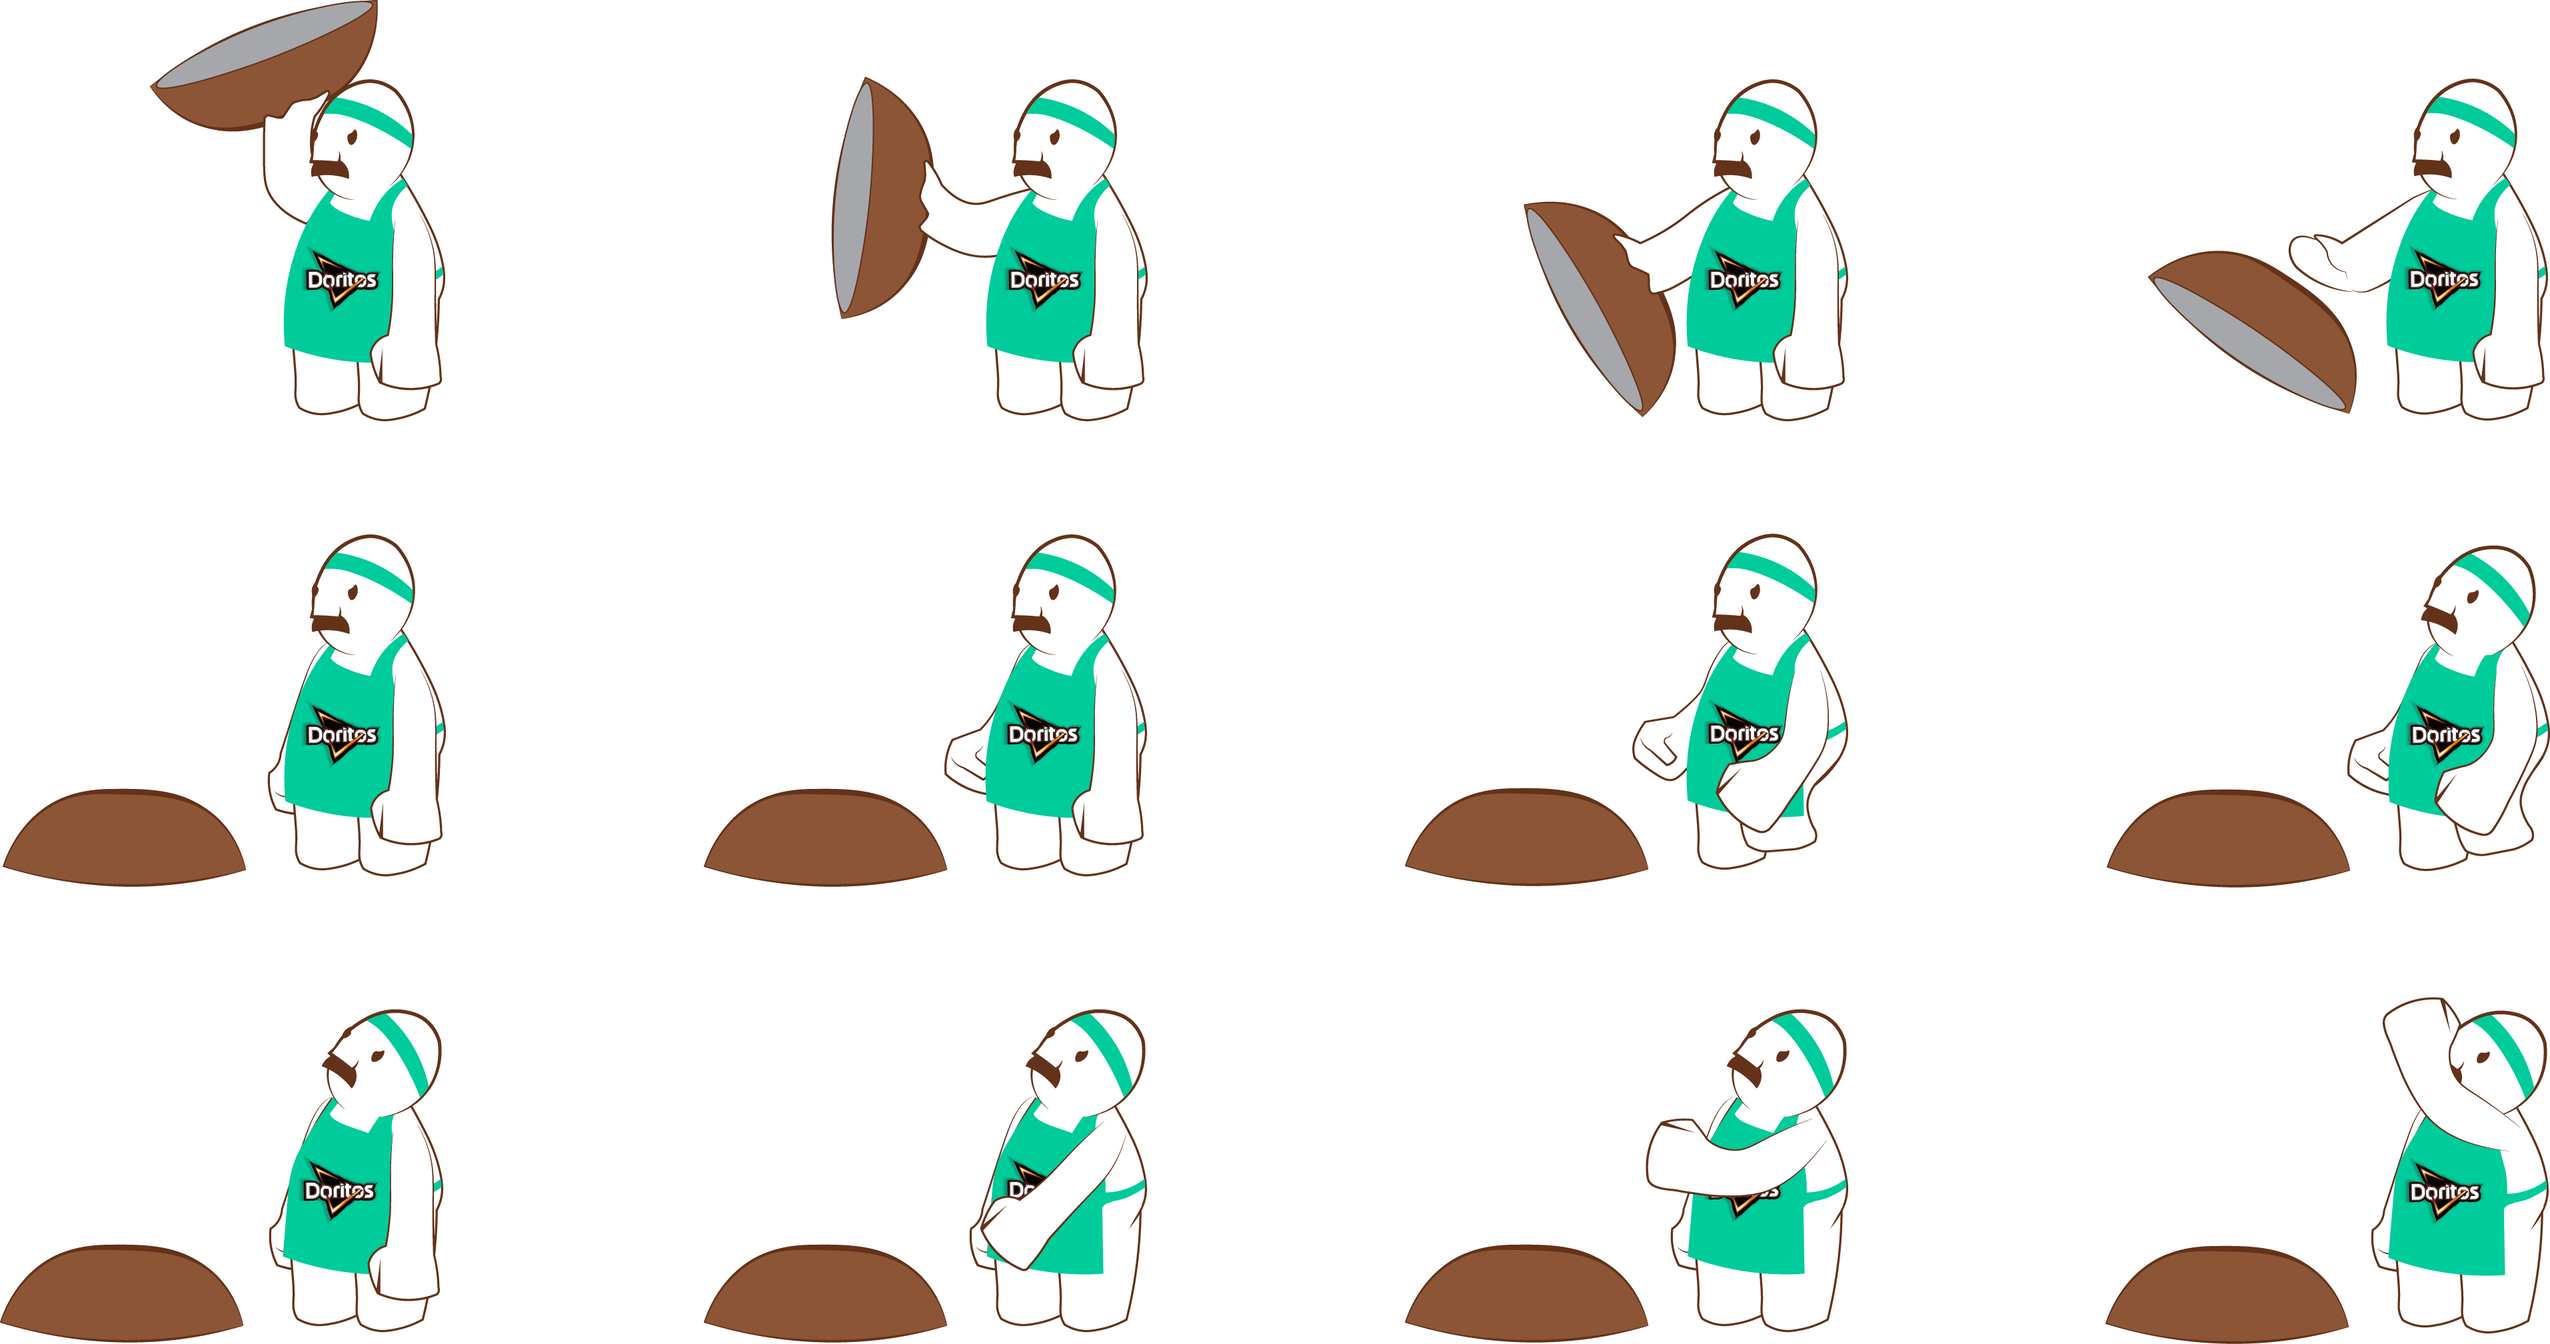
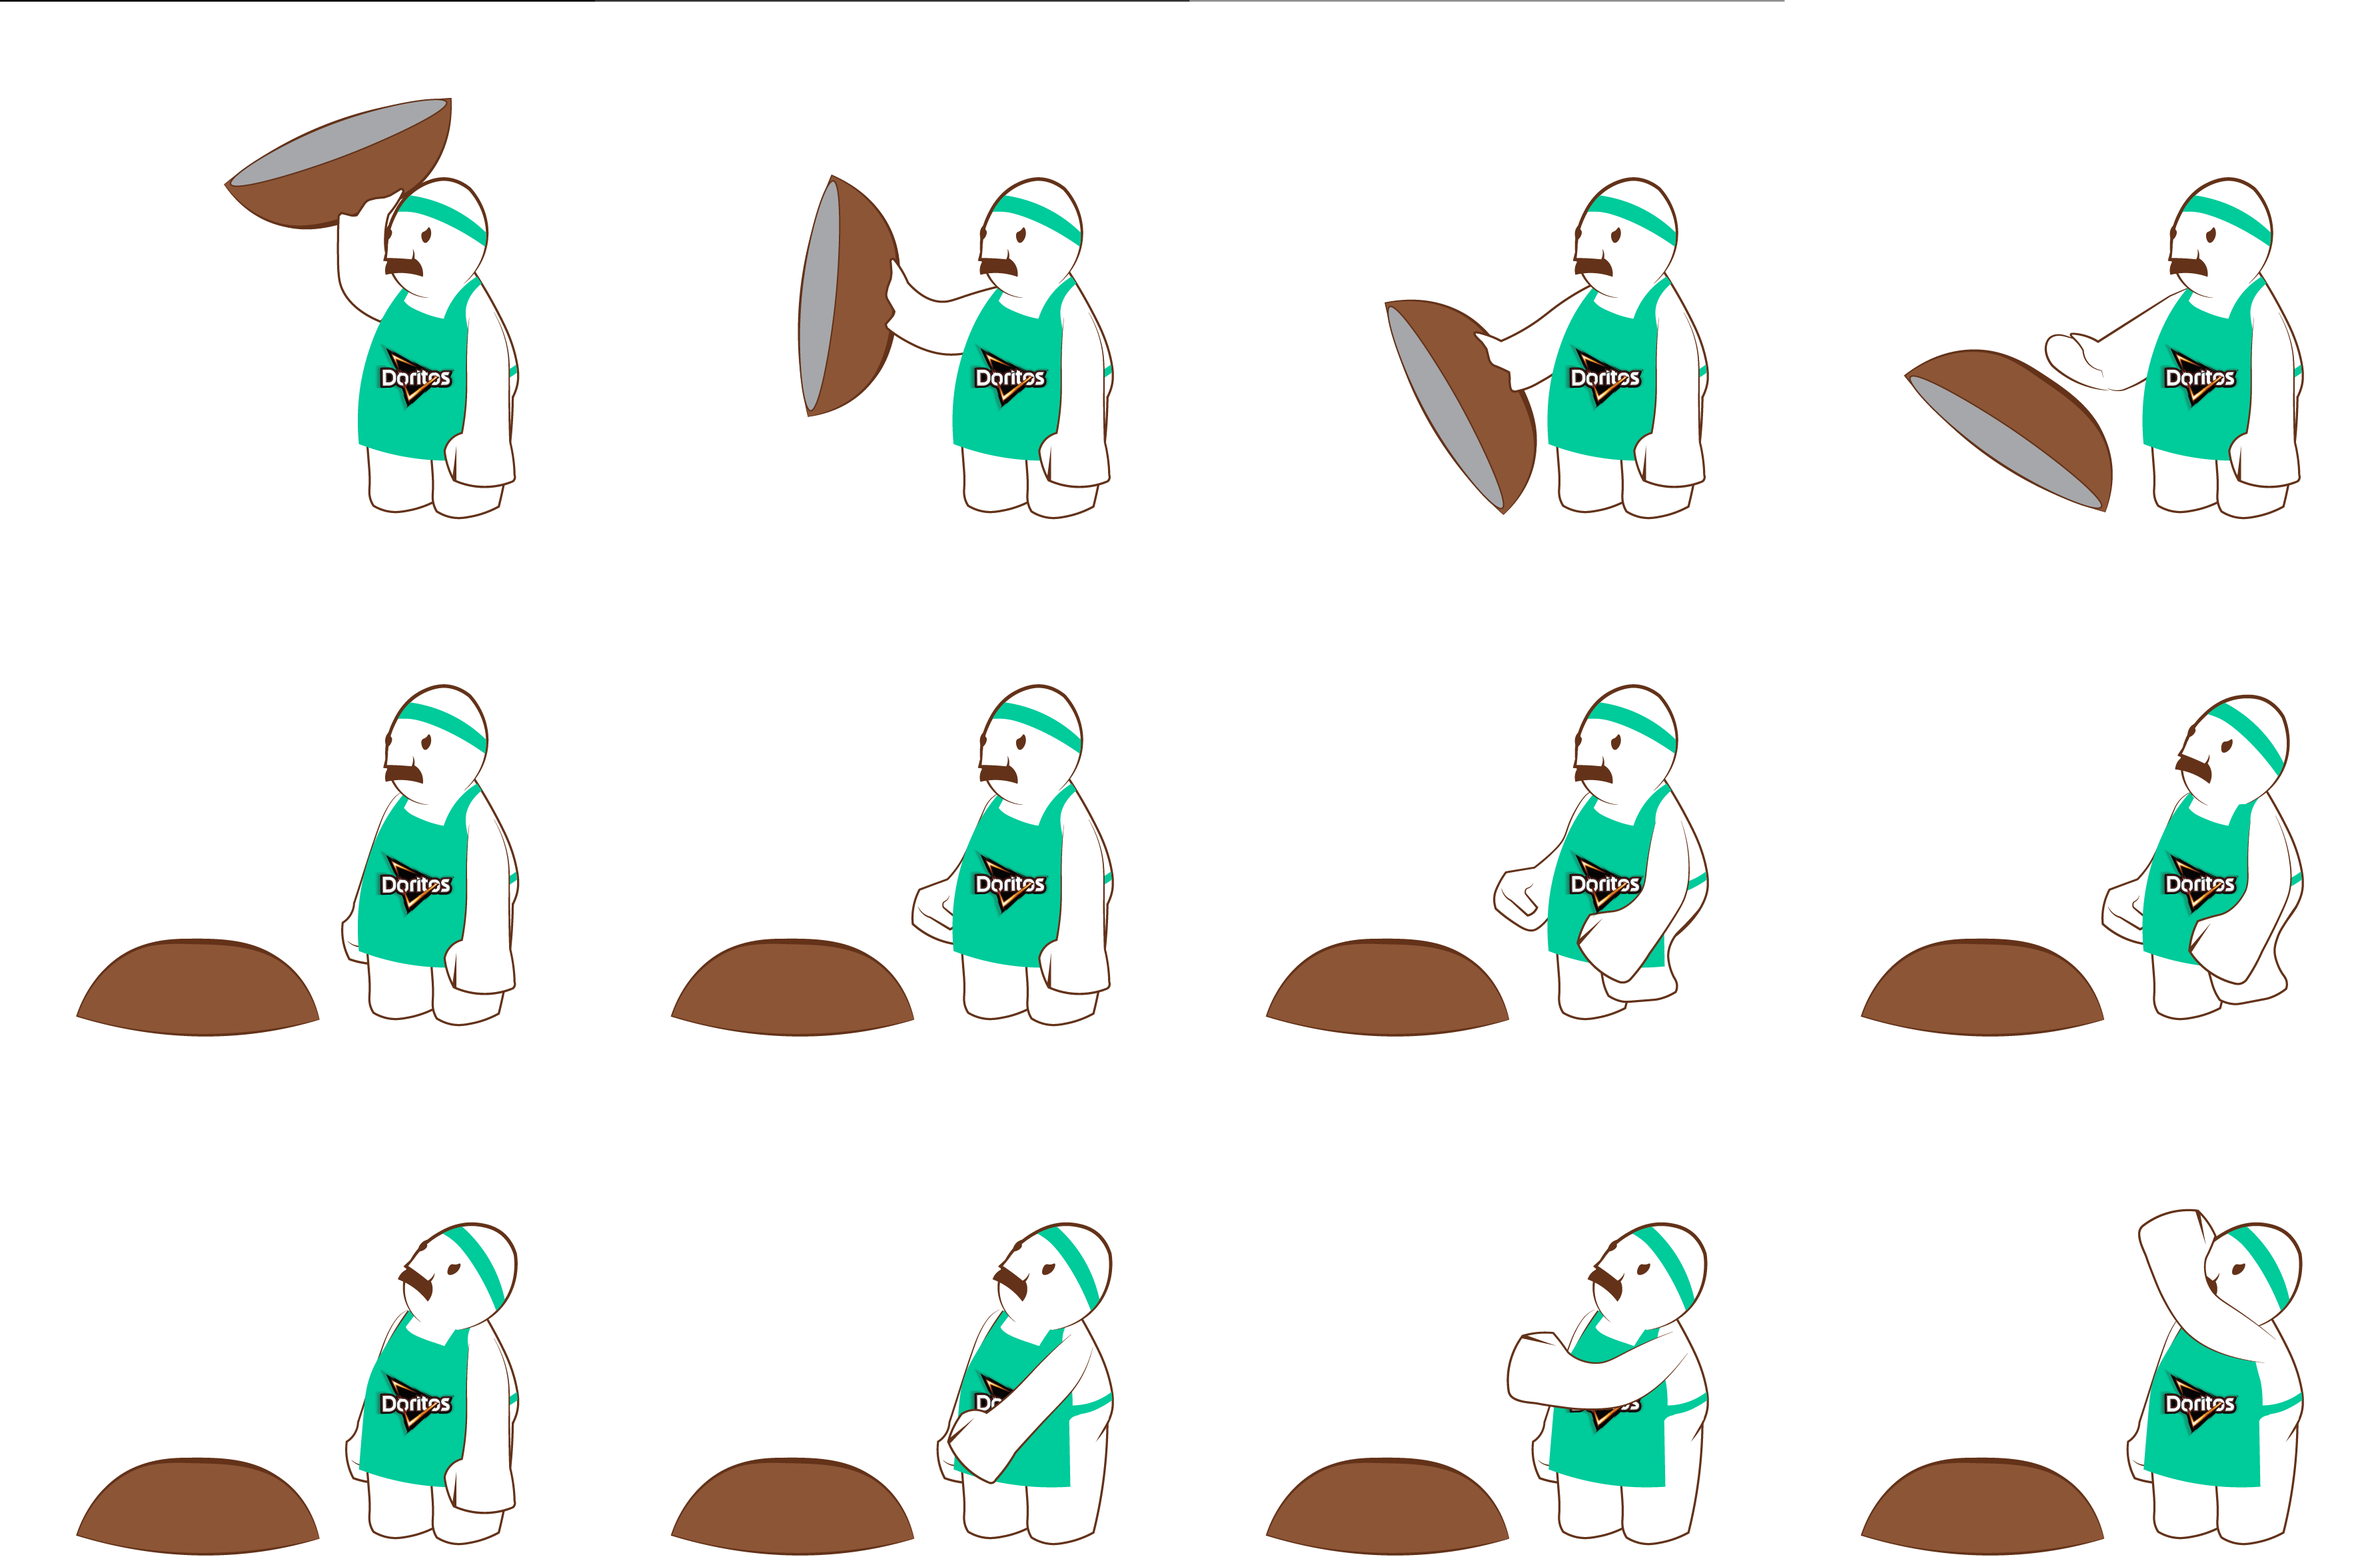
1. Animaciones funcionales

diff --git a/src/scenes/preloader.js b/src/scenes/preloader.js
@@ -8,11 +8,11 @@ export class Preloader extends Phaser.Scene {
     {
         this.load.setPath('public/assets');
         /* PLAYER */
-        this.load.spritesheet('player_iddle', './animaciones/player_iddle.png', { frameWidth: 450, frameHeight: 651.6 });
+        this.load.spritesheet('player_iddle', './animaciones/player_iddle.png', { frameWidth: 389, frameHeight: 779 });
         // this.load.spritesheet('player_run', './animaciones/player_run.png', { frameWidth: 450, frameHeight: 651.6 });
-        this.load.spritesheet('player_run', './animaciones/player_run.png', { frameWidth: 400, frameHeight: 800 });
-        this.load.spritesheet('player_jump', './animaciones/player_jump.png', { frameWidth: 303, frameHeight: 303 });
-        this.load.spritesheet('player_fall', './animaciones/player_fall.png', { frameWidth: 900, frameHeight: 650 });
+        this.load.spritesheet('player_run', './animaciones/player_run.png', { frameWidth: 389, frameHeight: 779 });
+        this.load.spritesheet('player_jump', './animaciones/player_jump.png', { frameWidth: 389, frameHeight: 779 });
+        this.load.spritesheet('player_fall', './animaciones/player_fall.png', { frameWidth: 893, frameHeight: 779 });
         
 
         /* ELEMS */
